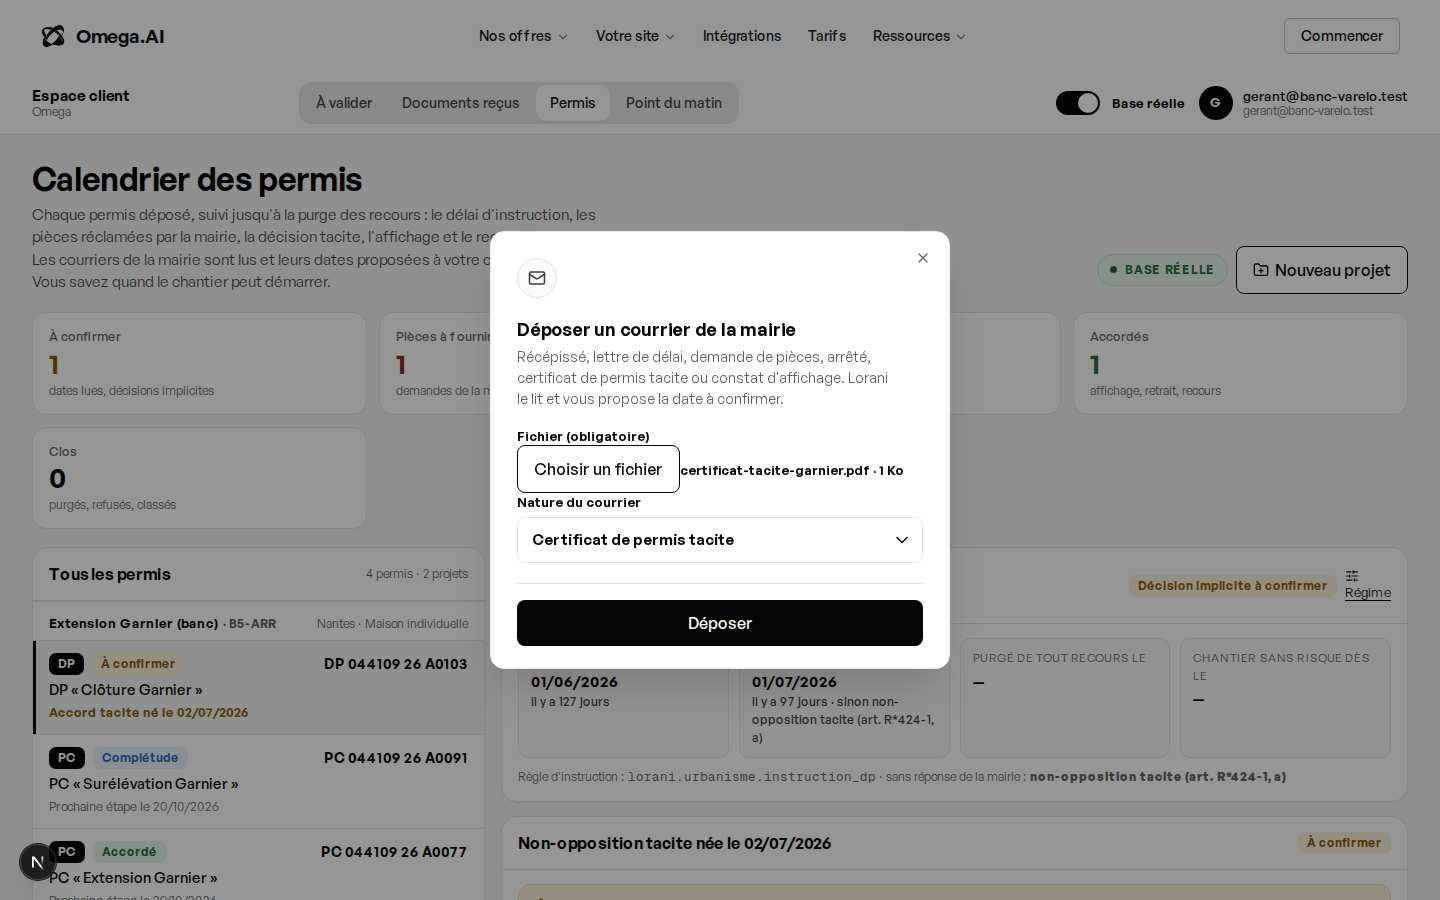
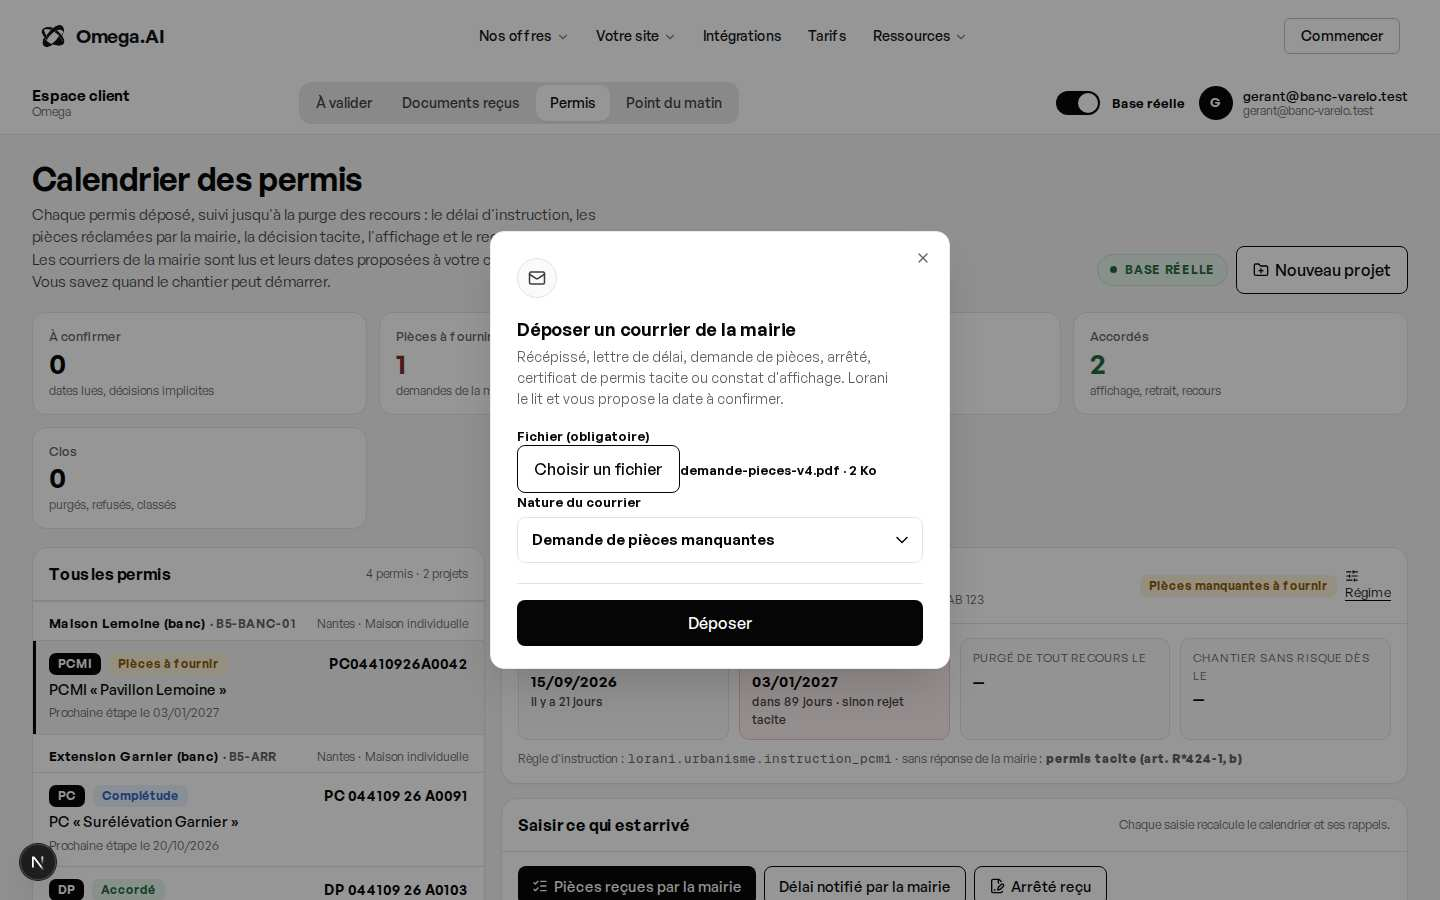
LORANI B5 : b5_07 prouvée en réel (union, date de la première lettre, échéance revenue au 01/01/2027) ; b5_08 — titre d'alerte de seconde demande sous 200 caractères avec ses articles
Claude-Session: https://claude.ai/code/session_018iNiXjY8eWmMjaGrXSGgma

diff --git a/omega/NOTES-B5.md b/omega/NOTES-B5.md
@@ -357,3 +357,21 @@ A0103, déposée le 2026-06-01 ; le socle la met d'emblée en `decision_a_confir
   d'un autre permis, en mémoire seulement (rien en base). `courrier-reel.mjs` s'arrête désormais si le permis visé
   n'est pas ouvert en base réelle.
 
+## 10. b5_07 en réel (06/10, 2 h 35–2 h 52 Z)
+
+- Coordinateur, 2 h 35 Z : b5_07 posée depuis a4e3197, `^test_b5_` **120/120** ; amorce sur le banc : « Pavillon
+  Lemoine » → historique [{2026-10-03, [PCMI2, PCMI8]}] (la lettre du 01/10 avait été écrasée avant la pose).
+- Rejeu par l'écran : `demande-pieces-v4.pdf` = la lettre du 01/10 (PCMI 3, PCMI 6), autre empreinte, déposée sur
+  « Pavillon Lemoine » : proposition à 211 s [PCMI3, PCMI6] du 01/10 (non écartée : l'historique ne la connaissait
+  pas), confirmée. Relu sous RLS : `date_demande_pieces` **2026-10-01** (la plus ancienne), `pieces_demandees`
+  **[PCMI3, PCMI6, PCMI2, PCMI8]** (la lettre la plus ancienne d'abord), `demandes_pieces` = les deux lettres,
+  échéance `pieces` revenue au **2027-01-01**, rappels [10, 3, 0] ; alerte « attention »
+  `lorani:permis:56c88739…:seconde_demande:2`. L'écran (base réelle) affiche « Plusieurs demandes de pièces. À
+  fournir : PCMI3, PCMI6, PCMI2, PCMI8. Lettres : du 01/10/2026 (PCMI3, PCMI6) ; du 03/10/2026 (PCMI2, PCMI8)… »
+  (capture `reel-seconde-demande-1440.jpg`). Le banc a retrouvé une scène juste, et le cas « la lettre la plus
+  ancienne arrive en second » est prouvé.
+- Défaut vu : le titre de l'alerte dépassait 200 caractères, coupé avant les articles → **b5_08**
+  (`b5_08_titre_alerte_seconde_demande.sql`, corps du trigger de b5_07, seuls les deux titres changent : articles
+  avant la liste, intitulé borné à 60). Essayé en local par-dessus b5_07 : titres complets, règle inchangée. Le
+  test 19 bis (titre `like '%seconde demande de pièces%'`) reste vrai.
+
